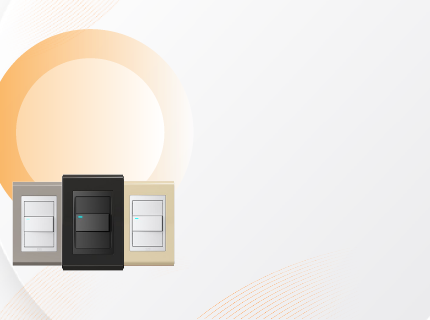
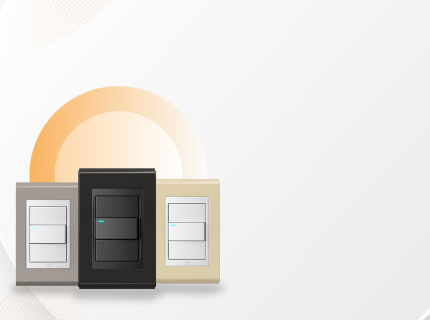
quarto commit

diff --git a/src/app/components/body.jsx b/src/app/components/body.jsx
@@ -38,7 +38,7 @@ export default function body () {
                 </div>
                 <div className="mt-5 flex justify-center">
                     <Image  className="mr-2" src={SeloQualidade} alt='icone-qualidade'></Image>
-                    <div className="text-left pl-3">
+                    <div className="text-left pl-6">
                         <p className="font-bold mr-10 "> Produtos de Qualidade</p>
                         <p className="text-white mr-10 ">Encontre marcas renomadas</p>
                         <p className="text-white mr-10 "> e garantia de fabricação</p>
@@ -52,12 +52,12 @@ export default function body () {
                 </div>
             </div>
             <div className="mt-5">
-                <div className="text-left h-80 bg-[url('/imgs/background2.png')] bg-cover bg-no-repeat bg-right-bottom">
+                <div className="text-left h-96 bg-[url('/imgs/background2.png')] bg-cover bg-no-repeat bg-left-bottom">
                     <div className="pt-10 pl-5 text-white">
                         <p className="font-extrabold text-3xl">Tudo em</p>
                         <p className="font-extrabold text-3xl">infraestrutura!</p>
                     </div>
-                    <div className="ml-5 mt-3 text-gray flex text-sm">
+                    <div className="ml-5 mt-3 text-gray flex font-medium">
                         <div>
                             <div className="mt-3">
                                 <p>Tubulação</p>
@@ -85,37 +85,37 @@ export default function body () {
                 </div>
             </div>
 
-                <div className="bg-[url('/imgs/background3.png')] bg-cover bg-no-repeat h-80 bg-right-bottom">
-                    <div className="text-right mr-10 pt-10 flex flex-col items-end">
-                        <div className="text-primary-orange pt-20 pr-3 font-extrabold text-xl">
+                <div className="bg-[url('/imgs/background3.png')] bg-cover bg-no-repeat h-96 bg-left">
+                    <div className="text-right mr-1 pt-10 flex flex-col items-end">
+                        <div className="text-primary-orange pt-12 pr-20 font-black text-xl">
                             <p> Interruptores</p>
                             <p className="pr-8"> e tomadas</p>
                         </div>
-                         <div  className="text-gray text-xsm mr-3 mt-5">
-                            <p className="font-bold">variedade e linhas exclusivas</p>
-                            <span className="text-start">
+                         <div  className="text-gray text-sm mr-3 mt-1">
+                            <p className="font-bold">Variedade e linhas exclusivas</p>
+                            <span className="text-start font-medium">
                             <p>Para o seu ambiente</p>
                             </span>
-                            <div className="bg-primary-orange w-5 h-0.5 rounded-full"></div>
+                            <div className="bg-gray w-5 h-0.5 rounded-full"></div>
                          </div>
                     </div>
                 </div>
                 <div className="bg-[url('/imgs/background5.png')] bg-cover bg-no-repeat h-80 bg-right-bottom">
                     <div>
-                        <p className="text-primary-orange font-extrabold text-2xl pt-12 text-left pl-5">Iluminação</p>
-                        <div className="text-gray flex text-left text-sm pl-3 gap-5 font-semibold pt-2">
+                        <p className="text-primary-orange font-black text-2xl pt-12 text-left pl-3">Iluminação</p>
+                        <div className="text-gray flex text-left text-sm pl-3 gap-5 font-medium pt-2">
                             <div>
                                 <p>Lâmpadas</p>
                                 <div className="bg-primary-orange w-10 h-0.5 rounded-full"></div>
-                                <p className="pt-3">Luminárias</p>
+                                <p className="pt-4">Luminárias</p>
                                 <div className="bg-primary-orange w-10 h-0.5 rounded-full"></div>
-                                <p className="pt-3">Painel de Led</p>
+                                <p className="pt-4">Painel de Led</p>
                                 <div className="bg-primary-orange w-10 h-0.5 rounded-full"></div>
                             </div>
                             <div>
                                 <p>Plafon</p>
                                 <div className="bg-primary-orange w-10 h-0.5 rounded-full"></div>
-                                <p className="pt-3">Spots</p>
+                                <p className="pt-4">Spots</p>
                                 <div className="bg-primary-orange w-10 h-0.5 rounded-full"></div>
                             </div>
                         </div>
@@ -124,13 +124,13 @@ export default function body () {
                 <div className="bg-[url('/imgs/background4.png')] bg-cover h-80 bg-no-repeat bg-right-bottom ">
                 <Botao></Botao>
                  <div className="flex flex-col items-end">
-                        <div className="text-white text-2xl font-extrabold text-left pr-5 pt-3">
+                        <div className="text-white text-2xl font-black text-left pr-5 pt-3">
                             <div>
                                 <p>Condutores</p>
                                 <p>Elétricos</p>
                             </div>
-                            <div className="text-gray text-xs font-bold text-left">
-                                <p>com as marcas preferidas </p>
+                            <div className="text-gray text-xs font-medium text-left">
+                                <p>Com as <span className="font-bold"> marcas preferidas </span>  </p>
                                 <p>pelos profissionais da área</p>
                                 <div className="bg-gray w-8 h-0.5 rounded-full mt-1"></div>
                             </div>
@@ -140,16 +140,16 @@ export default function body () {
         
                 <div className="bg-[url('/imgs/background6.png')] bg-cover bg-no-repeat h-80 bg-right-bottom">
                     <div className="text-left pt-10 ml-3">
-                    <h1 className="text-2xl font-bold text-primary-orange">Industrial</h1>
+                    <h1 className="text-2xl font-black text-primary-orange">Industrial</h1>
                     <div className="text-sm mt-3">
                         <p>Painéis de</p>
                         <p>comando</p>
                         <div className="bg-primary-orange w-8 h-0.5 rounded-full mt-1"></div>
-                        <p className="text-sm mt-1" >Acionamentos</p>
+                        <p className="text-sm mt-3" >Acionamentos</p>
                         <div className="bg-primary-orange w-8 h-0.5 rounded-full mt-1"></div>
-                        <p className="text-sm mt-1" >Eletrocalhas</p>
+                        <p className="text-sm mt-3" >Eletrocalhas</p>
                         <div className="bg-primary-orange w-8 h-0.5 rounded-full mt-1"></div>
-                        <p className="text-sm mt-1" >Automação</p>
+                        <p className="text-sm mt-3" >Automação</p>
                         <div className="bg-primary-orange w-8 h-0.5 rounded-full mt-1"></div>
                     </div>
                     </div>
@@ -157,14 +157,14 @@ export default function body () {
             <div className="bg-primary-orange h-80 flex">
                 <div className="font-bold text-gray">
                     <div className="mt-10 ">Desde 2019 <span className="font-regular">atendendo</span> Dourados-MS e região!</div>
-                    <div className="border-2 mx-8 mt-2 rounded-md text-2xl">+3000</div>
-                    <p className="font-regular ">clientes cadastrados</p>
+                    <div className="border-2 mx-8 mt-2 rounded-md text-2xl">+3.000</div>
+                    <p className="font-regular ">Clientes cadastrados</p>
                 </div>
                 <iframe width="145" height="max" className=" pl-3"src="https://www.youtube.com/embed/_EgU_7rzkEo?si=42zhpNmclXlGxeyM" title="YouTube video player" frameborder="0" allow="accelerometer; autoplay; clipboard-write; encrypted-media; gyroscope; picture-in-picture; web-share" allowfullscreen></iframe>
             </div>
 
             <div className="bg-[url('/imgs/background7.png')] bg-cover bg-no-repeat h-full bg-right-bottom pb-10 pt-7" >
-              <h1 className="text-gray text-xl font-bold">Avaliações da Girolux</h1>
+              <h1 className="text-gray text-xl font-black">Avaliações da Girolux</h1>
               <div className="flex justify-center">
                 <p className="font-semibold text-gray text-3xl pt-1 pr-2">4,9</p>
                 <Image src={IconeEstrela} className="h-10 w-10"></Image>
@@ -203,10 +203,10 @@ export default function body () {
               </div>
             </div>
             
-            <div className="bg-[url('/imgs/background8.png')] bg-cover bg-no-repeat h-full bg-no-repeat bg-right-bottom">
+            <div className="bg-primary-orange">
                 <Botao></Botao>
                 
-                <h1 className="text-gray font-extrabold text-2xl">
+                <h1 className="text-gray font-black text-2xl">
                    <p>Em parceria com</p>
                     <p>renomados fornecedores!</p>
                 </h1>

diff --git a/src/app/components/contactbutton.jsx b/src/app/components/contactbutton.jsx
@@ -7,9 +7,9 @@ export default function ContactButton () {
     return (
         <form className="relative -top-8">
             <Link href={'https://wa.me/556730386433'}>
-                <button className="inline-flex font-bold bg-gray text-white w-72 h-16 text-center items-center justify-center px-5 py-5 rounded-full">
+                <button className="inline-flex font-bold bg-gray text-white w-72 h-16 text-center items-center  px-5 py-5 rounded-full">
                     <Image src={WhatsappIcon} alt={'icone whatsapp'} className="mr-2"></Image>
-                    Entrar em contato
+                    <p className="ml-3">Entrar em contato</p>
                 </button>
             </Link>
         </form>
